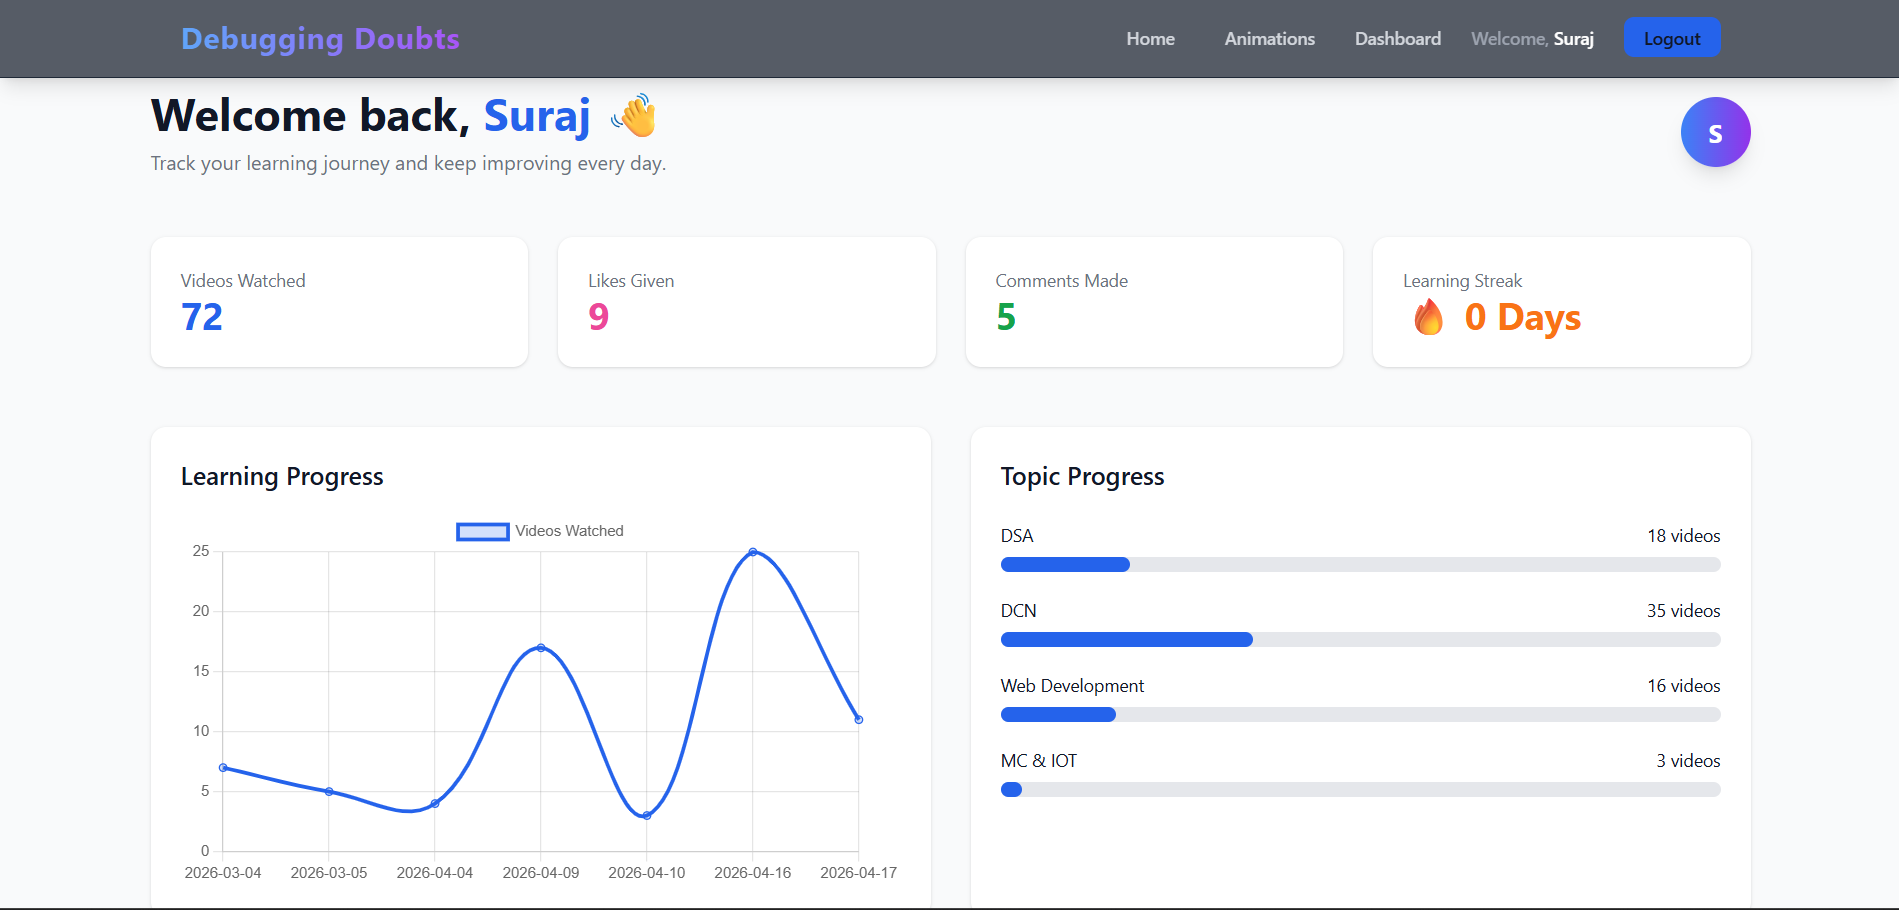
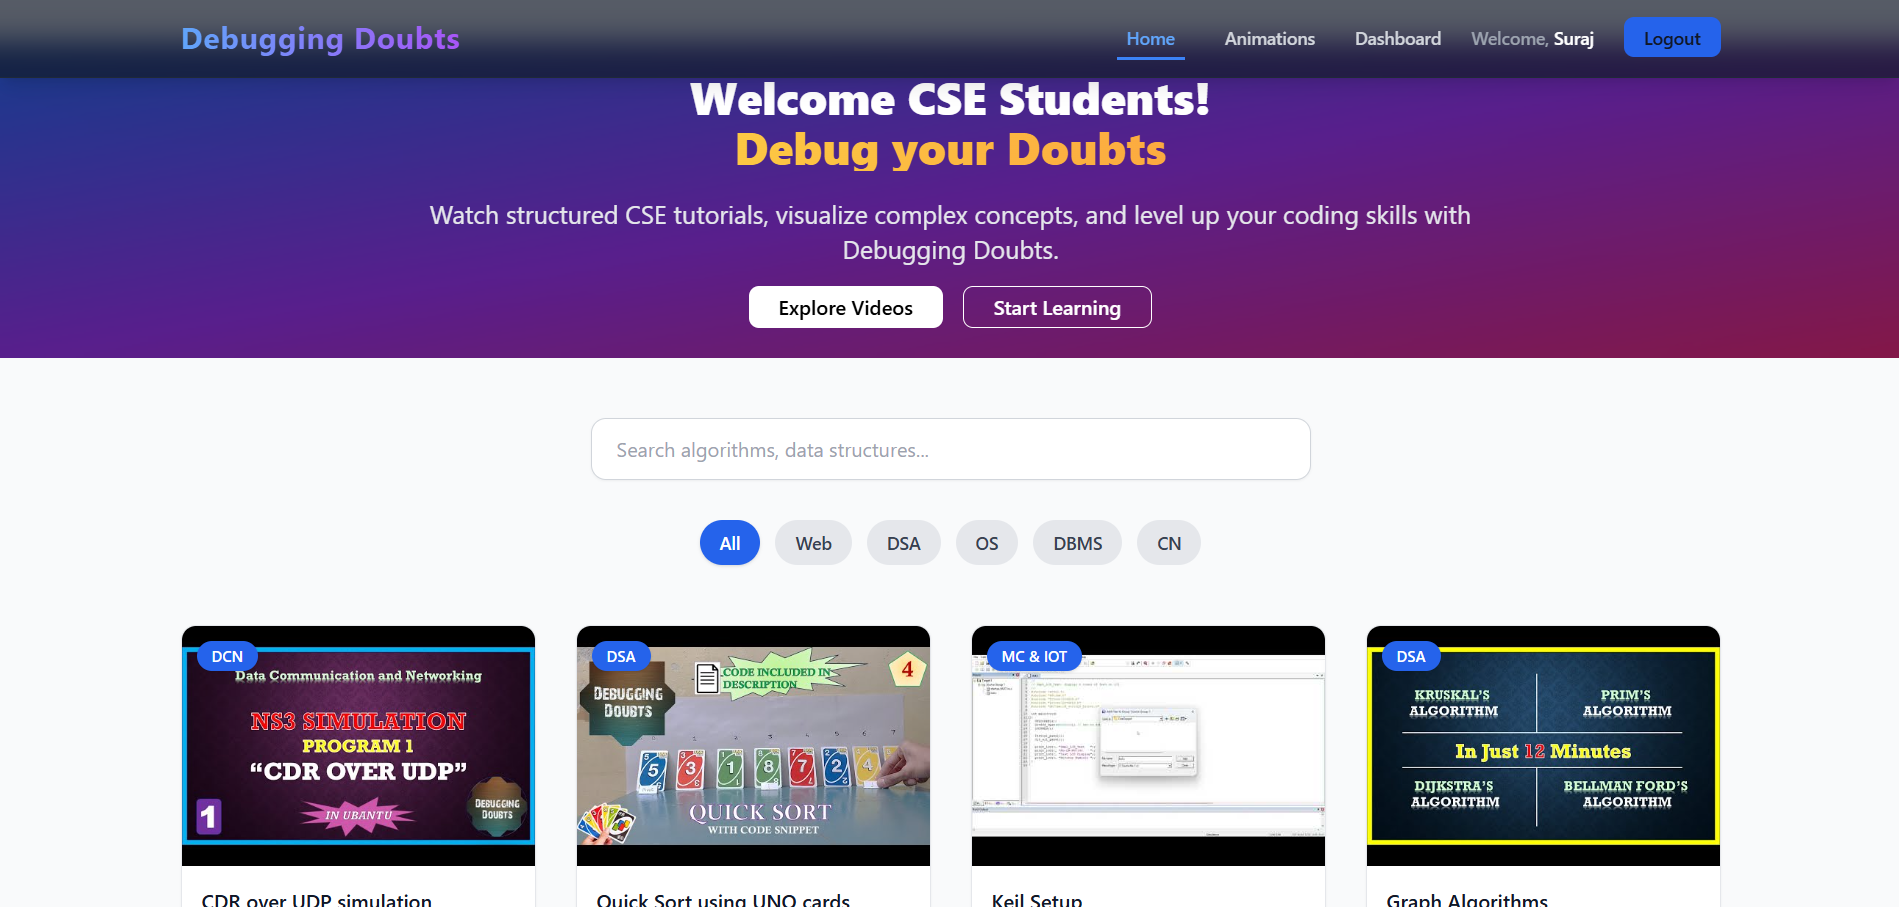
All Projects framed properly with their links properly

diff --git a/index.html b/index.html
@@ -89,10 +89,14 @@
 
                 <article class="card project-card" onclick="toggleProject(this)">
                     <div class=" card-header">
-                        <h4 class=" title">Campus Helpdesk (AI Powered)</h4>
-                        <div class="project-images">
-                            <img src="./public/assets/images/Projects/CampusHelpdesk.png"
-                                alt="Campus Helpdesk Project Screenshot">
+                        <h4 class=" title">Campus Helpdesk - AI Powered Chatbot</h4>
+                        <div class="image-slider">
+                            <div class="slider-track">
+                                <img src="./public/assets/images/Projects/CampusHelpdesk1.png"
+                                    alt="Campus Helpdesk Project Screenshot 1">
+                                <img src="./public/assets/images/Projects/CampusHelpdesk2.png"
+                                    alt="Campus Helpdesk Project Screenshot 2">
+                            </div>
                         </div>
                         <span class="badge">Python</span>
                         <span class="badge">MongoDB</span>
@@ -124,7 +128,7 @@
                             <img src="./public/assets/images/Projects/StellarRoute.png"
                                 alt="StellarRoute Project Screenshot">
                         </div>
-                        <span class="badge">MERN Stack</span>
+                        <span class="badge">FastAPI</span>
                         <span class="badge">Leaflet.js</span>
                         <span class="badge">NASA APIs</span>
                         <span class="expand-icon">+</span>
@@ -132,8 +136,6 @@
                     StellarRoute is a GPS-independent navigation system designed for high-interference environments like
                     Solar Storms.
                     <div class="project-details">
-                        <p><em>GPS-independent navigation system designed for high-interference environments like Solar
-                                Storms.</em></p>
                         <ul class="bullet-list">
                             <li>Implemented Inertial Navigation logic using mobile IMU sensor data to calculate position
                                 without satellite dependency.</li>
@@ -142,9 +144,9 @@
                         </ul>
                     </div>
                     <div class="card-actions">
-                        <a href="https://github.com/varun99015/StellarRoute" target="_blank"
-                            class="link-btn outline">GitHub
-                            Repo</a>
+                        <a href="https://github.com/varun99015/StellarRoute" target="_blank" class="link-btn outline">
+                            GitHub Repo
+                        </a>
                     </div>
                 </article>
 
@@ -174,8 +176,9 @@
                     </div>
                     <div class="card-actions">
                         <a href="https://github.com/surajkb2005/Booking_System_Using_Redis" target="_blank"
-                            class="link-btn outline">GitHub
-                            Repo</a>
+                            class="link-btn outline">
+                            GitHub Repo
+                        </a>
                         <a href="https://booking-system-using-redis.onrender.com/" target="_blank"
                             class="link-btn outline">Live Demo</a>
                     </div>
@@ -186,21 +189,22 @@
                         <h4 class="title">Debugging Doubts</h4>
                         <div class="image-slider">
                             <div class="slider-track">
-                                <img src="./public/assets/images/Projects/DebuggingDoubts.png"
-                                    alt="Booking System Project Screenshot 1">
                                 <img src="./public/assets/images/Projects/DebuggingDoubts1.png"
-                                    alt="Booking System Project Screenshot 2">
+                                    alt="Debugging Doubts Project Screenshot 1">
+                                <img src="./public/assets/images/Projects/DebuggingDoubts2.png"
+                                    alt="Debugging Doubts Project Screenshot 2">
                             </div>
                         </div>
                         <span class="badge">MERN stack</span>
                         <span class="expand-icon">+</span>
                     </div>
                     This is my youtube channel platform, to help to learn computer science basic concepts with
-                    animations and track their progress.
+                    animations and also to track their progress.
                     <div class="project-details">
                         <ul class="bullet-list">
                             <li>Created a youtube based video platform for tracking progress of students</li>
-                            <li>Uploaded the HTML,CSS,Js based animations based on textbook of some useful concepts</li>
+                            <li>Uploaded the HTML, CSS, Js based animations, refering textbook, on some useful concepts
+                            </li>
                         </ul>
                     </div>
                     <div class="card-actions">
@@ -216,7 +220,7 @@
                         <h4 class=" title">Hand Gesture Game Controler</h4>
                         <div class="project-images">
                             <img src="./public/assets/images/Projects/OpenCVCarGame.png"
-                                alt="Booking System Project Screenshot">
+                                alt="OpenCV Game Controller Project Screenshot">
                         </div>
                         <span class="badge">Python</span>
                         <span class="badge">OpenCV</span>
@@ -237,8 +241,10 @@
                         </ul>
                     </div>
                     <div class="card-actions">
-                        <a href="https://github.com/surajkb2005/OpenCV" target="_blank" class="link-btn outline">GitHub
-                            Repo</a>
+                        <a href="https://github.com/surajkb2005/OpencvHandDetectForGame.git" target="_blank"
+                            class="link-btn outline">
+                            GitHub Repo
+                        </a>
                         <a href="https://youtu.be/HopyiMhyfKg?si=AwDFh7GDK9abPD5W" target="_blank"
                             class="link-btn outline">Youtube Tutorial</a>
                     </div>
@@ -258,14 +264,11 @@
                     The Hybrid algorithm for the sorting function to switch Merge sort and Quick sort as per required by
                     the algorithm.
                     <div class="project-details">
-                        <p><em>GPS-independent navigation system designed for high-interference environments like Solar
-                                Storms.</em></p>
                         <ul class="bullet-list">
                             <li>Created a hybrid sorting algorithm fusing the stability of Merge Sort with the speed of
                                 Quick Sort.</li>
                             <li>Optimized performance using an adaptive switching mechanism based on dataset partition
-                                size
-                                and pattern.</li>
+                                size and pattern.</li>
                         </ul>
                     </div>
                     <div class="card-actions">
